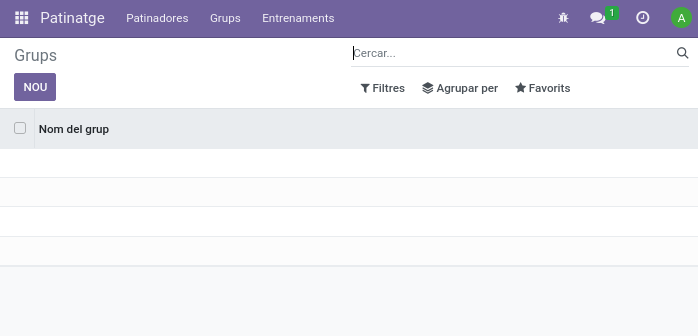
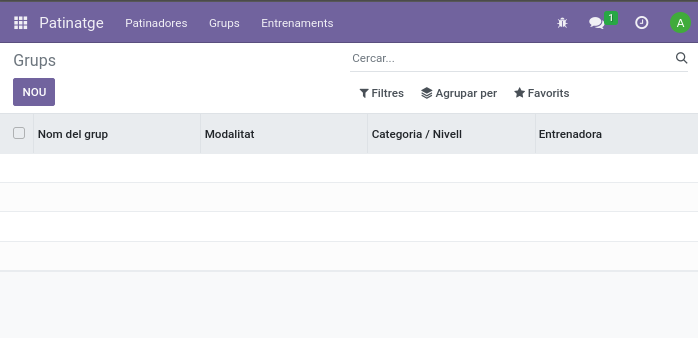
Tema 6 complet

diff --git a/docs/Unitats/Tema6/practica_tema6_patinatge.md b/docs/Unitats/Tema6/practica_tema6_patinatge.md
@@ -66,7 +66,6 @@ En el fitxer `views/patinatge_menus.xml`, cal afegir **dues accions de finestra 
 
 💡 *Pista:* el codi és molt semblant al de Patinadores; només canvien els noms i el `res_model`.
 
----
 
 ## 4. Crear les vistes per al model Grup
 
@@ -94,6 +93,25 @@ El formulari ha d’estar ben organitzat:
 
 💡 *Consell:* utilitza `<group>` i `<notebook>` com ja has fet amb Patinadores.
 
+
+### 👥 Resultat final – model Grup
+
+Vista de llistat (*tree*) de Grups:
+```{image} /_static/assets/img/Tema6/vista-grups.png
+:alt: Vista Grups
+:class: img-fluid
+:width: 80%
+:align: center
+```
+
+Vista de formulari (*form*) de Grup, amb pestanya de patinadores:
+```{image} /_static/assets/img/Tema6/vista-grup-form.png
+:alt: Vista Grup form
+:class: img-fluid
+:width: 80%
+:align: center
+```
+
 ---
 
 ## 5. Crear les vistes per al model Entrenament
@@ -120,6 +138,24 @@ El formulari ha d’incloure:
 - Dades bàsiques de l’entrenament,
 - El grup associat,
 - Una pestanya amb les patinadores participants (`patinadores_ids`).
+
+### 🏋 Resultat final – model Entrenament
+
+Vista de llistat (*tree*) d’Entrenaments:
+```{image} /_static/assets/img/Tema6/vista-entrenaments.png
+:alt: Vista Entrenaments
+:class: img-fluid
+:width: 80%
+:align: center
+```
+
+Vista de formulari (*form*) d’Entrenament amb grup i patinadores:
+```{image} /_static/assets/img/Tema6/vista-entrenaments-form.png
+:alt: Vista Entrenament form
+:class: img-fluid
+:width: 80%
+:align: center
+```
 
 ---
 
